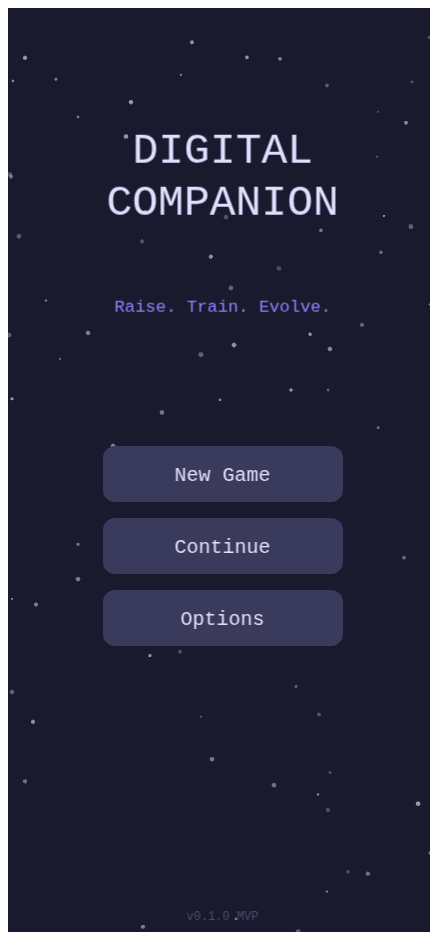
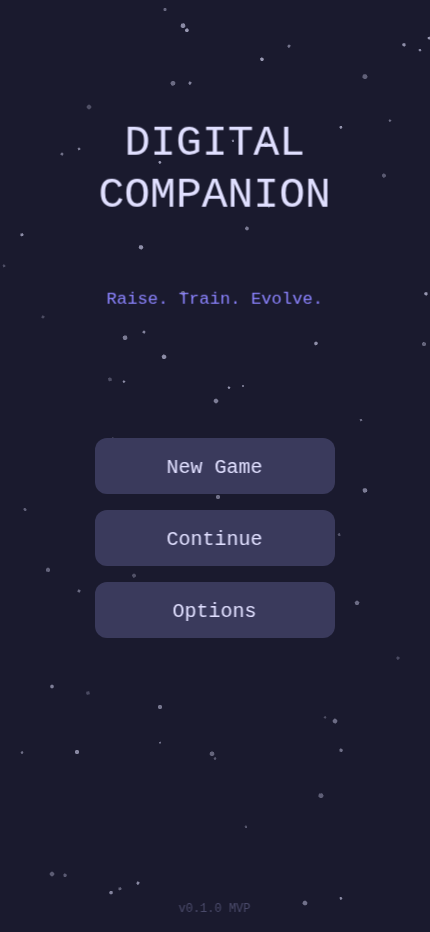
fix: eliminate white border/frame with CSS reset
- index.html: html/body/#root margin:0 padding:0 overflow:hidden background:#1a1a2e
- App.tsx: 100% instead of 100vw/100vh to avoid scrollbar gaps

diff --git a/src/App.tsx b/src/App.tsx
@@ -39,7 +39,7 @@ export function App() {
   }, [awayHours, events.length, currentScene]);
 
   return (
-    <div style={{ position: 'relative', width: '100vw', height: '100vh', overflow: 'hidden' }}>
+    <div style={{ position: 'relative', width: '100%', height: '100%', overflow: 'hidden' }}>
       <div id="phaser-game-container" style={{ position: 'absolute', inset: 0, zIndex: 1 }} />
       {showHud && <HUD />}
       {showAwaySummary && (

diff --git a/index.html b/index.html
@@ -9,6 +9,17 @@
     <link rel="manifest" href="/manifest.json" />
     <title>Digital Companion</title>
   </head>
+  <style>
+    html, body, #root {
+      margin: 0;
+      padding: 0;
+      width: 100%;
+      height: 100%;
+      overflow: hidden;
+      box-sizing: border-box;
+      background-color: #1a1a2e;
+    }
+  </style>
   <body>
     <div id="root"></div>
     <script type="module" src="/src/main.tsx"></script>
